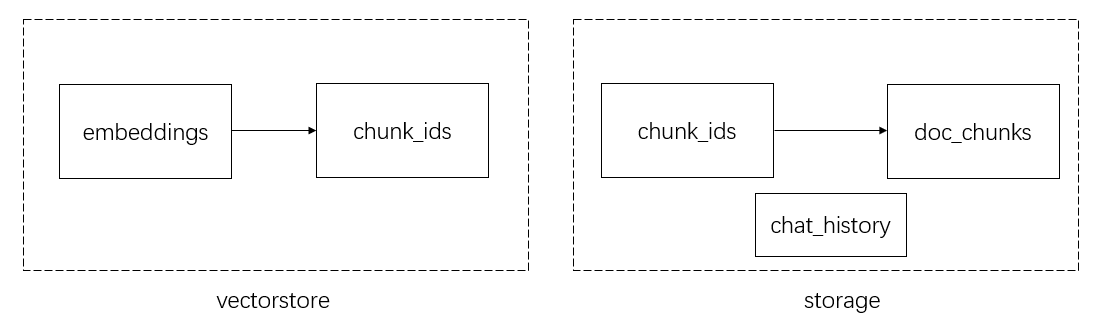
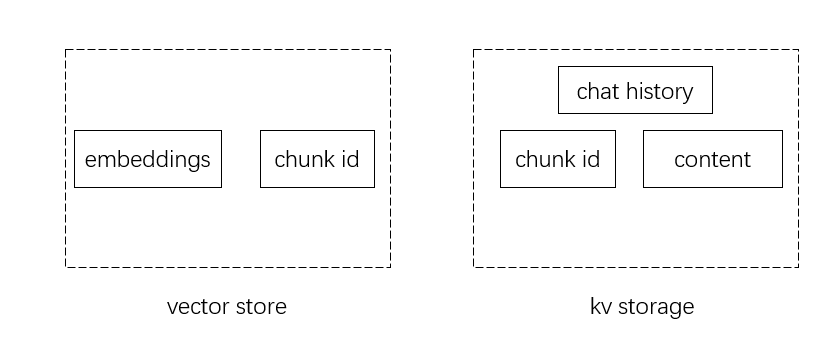
update README images

diff --git a/README_zh.md b/README_zh.md
@@ -1,11 +1,12 @@
 # RagPanel
 [[English](README.md) | 简体中文]
 ## 快速开始
-1. 启动数据库服务，包括一个传统数据库和一个向量数据库。
-目前支持的传统数据库: `redis`,  `elasticsearch`  
+1. 启动数据库服务，包括一个键值对数据库和一个向量数据库。
+目前支持的键值数据库: `redis`,  `elasticsearch`  
 目前支持的向量数据库: `chroma`, `milvus`  
 您可以使用docker部署 (见[docker](docker)文件夹)
-![database_zh](assets/database_zh.png)
+![database_zh](assets/database_zh.png)  
+数据存储情况如上图所示，本项目支持稀疏检索、稠密检索：稀疏检索在键值数据库中对文档内容检索，直接得到文档内容；稠密检索在向量数据库中检索，得到文档块id，再直接在键值数据库中得到文档内容。
 
 2. 根据启动的数据库服务安装依赖项。 以 `elasticsearch`+`milvus` 为例:
 ```
@@ -72,16 +73,11 @@ dump:
 `webui`: 可视化网页UI (由Gradio驱动)。
 
 ## Api服务样例
-假设您已经创建完 **.env**和 **config.yaml**，并且**启动了数据库服务**，下面以[examples](examples)文件夹下的内容为例来展示如何启动和使用api服务。  
-1. 运行 `ragpanel-cli --action build --config examples/config/config.yaml`来构建索引。  
-2. 运行 `ragpanel-cli --action launch --config examples/config/config.yaml`来启动api服务。
-3. 向服务器发送post请求，格式参考[post.py](examples/post.py)，您可以试运行`python examples/post.py`来查看结果。  
-4. 如果需要导出聊天记录，可以运行`ragpanel-cli --action dump --config examples/config/config.yaml`来导出。  
-您可以查看[examples](examples)文件夹下的README来了解更多信息。
+假设您已经创建完 **.env**和 **config.yaml**，并且**启动了数据库服务**，您可以参考[examples](examples)文件夹下的README来启动和使用api服务。  
    
 ## 网页UI
 您可以启动网页UI来设置和测试您的环境配置，如下所示:
-1. 运行 `ragpanel-cli --action webui`。 您会看到如下界面：
-![Web UI](./assets/webui.png)
+1. 运行 `ragpanel-cli --action webui`。之后选择语言`en`（英语）或`zh`（中文），您会看到如下界面：
+![Web UI](./assets/webui_zh.png)
 
 2. 设置合适的环境参数，并尝试构建索引、查询、聊天等，以测试环境配置是否有效。

diff --git a/README.md b/README.md
@@ -1,11 +1,12 @@
 # RagPanel
 [English | [简体中文](README_zh.md)]
 ## Quick Start
-1. Start database server, including a storage server and a vectorstore server.  
-Supported storages: `redis`,  `elasticsearch`.  
+1. Start database server, including a kv storage server and a vectorstore server.  
+Supported kv storages: `redis`,  `elasticsearch`.  
 Supported vectorstores: `chroma`, `milvus`.  
 You can deploy them using docker. (See [docker](docker/) folder)
 ![database](assets/database.png)
+The data storage situation is shown in the figure above. This project supports sparse retrieval and dense retrieval: sparse retrieval searches the document content in the KV database and directly obtains the document content; dense retrieval searches in the vector store and obtains the document block id, and then get the document content from the KV database.
 
 2. Install dependencies according to your database server. Take `elasticsearch`+`milvus` as an example:
 ```
@@ -72,16 +73,11 @@ Here are action choices:
 `webui`: visual webui (driven by Gradio).
 
 ## Api Example
-Assuming you have created **.env** and **config.yaml** properly, and **started your database server**, take data in [examples](examples) folder as an example.  
-1. Run `ragpanel-cli --action build --config examples/config/config.yaml` to build index.  
-2. Run `ragpanel-cli --action launch --config examples/config/config.yaml` to launch api service.
-3. Send post to server like [post.py](examples/post.py). You can run `python examples/post.py` to test.  
-4. Run `ragpanel-cli --action dump --config examples/config/config.yaml` to dump your chat history if needed.  
-You can see README in [examples](examples) folder for more details.
+Assuming you have created **.env** and **config.yaml** properly, and **started your database server**, you can see README in [examples](examples) folder to know how to start and use API server.
    
 ## Web UI
 You can start a webui server to set and test your environment as follows:
-1. Run `ragpanel-cli --action webui`. You will see ui like:
+1. Run `ragpanel-cli --action webui`. Choose the language `en` (English) or `zh` (Chinese). You will see ui like:
 ![Web UI](assets/webui.png)
 
 2. Set proper parameters and then try to insert, retrieve and chat to check your environment.
